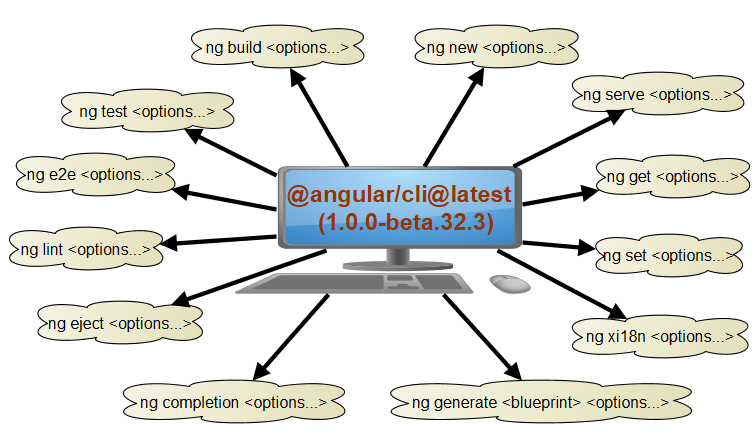
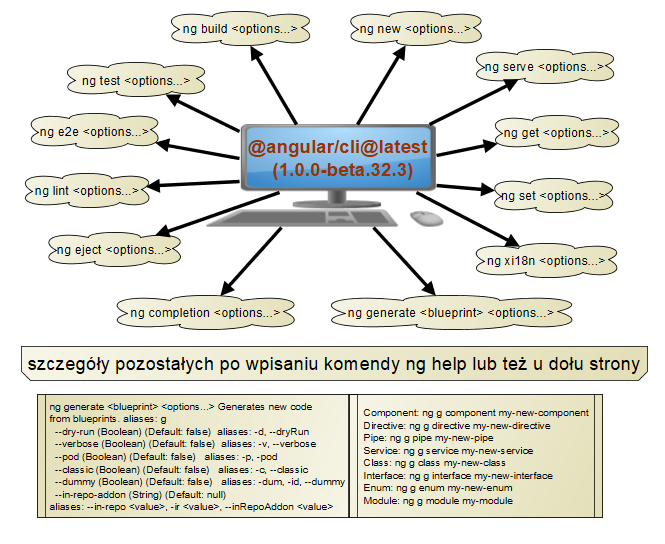
next

diff --git a/src/app/match-gen/match-gen.component.spec.ts b/src/app/match-gen/match-gen.component.spec.ts
@@ -1,0 +1,25 @@
+import { async, ComponentFixture, TestBed } from '@angular/core/testing';
+
+import { MatchGenComponent } from './match-gen.component';
+
+describe('MatchGenComponent', () => {
+  let component: MatchGenComponent;
+  let fixture: ComponentFixture<MatchGenComponent>;
+
+  beforeEach(async(() => {
+    TestBed.configureTestingModule({
+      declarations: [ MatchGenComponent ]
+    })
+    .compileComponents();
+  }));
+
+  beforeEach(() => {
+    fixture = TestBed.createComponent(MatchGenComponent);
+    component = fixture.componentInstance;
+    fixture.detectChanges();
+  });
+
+  it('should create', () => {
+    expect(component).toBeTruthy();
+  });
+});

diff --git a/src/app/app.module.ts b/src/app/app.module.ts
@@ -7,6 +7,7 @@ import { MaterialModule, OverlayContainer, FullscreenOverlayContainer} from '@an
 import {RouterModule} from '@angular/router';
 
 import { DNArootComponent, Wprowadzenie } from './app.component';
+import { MatchGenComponent } from './match-gen/match-gen.component';
 
 @NgModule({
   imports: [
@@ -20,7 +21,8 @@ import { DNArootComponent, Wprowadzenie } from './app.component';
   ],
   declarations: [
     DNArootComponent,
-    Wprowadzenie
+    Wprowadzenie,
+    MatchGenComponent
   ],
   providers: [
     {provide: OverlayContainer, useClass: FullscreenOverlayContainer}

diff --git a/src/app/match-gen/match-gen.component.ts b/src/app/match-gen/match-gen.component.ts
@@ -1,0 +1,15 @@
+import { Component, OnInit } from '@angular/core';
+
+@Component({
+  selector: 'app-match-gen',
+  templateUrl: './match-gen.component.html',
+  styleUrls: ['./match-gen.component.scss']
+})
+export class MatchGenComponent implements OnInit {
+
+  constructor() { }
+
+  ngOnInit() {
+  }
+
+}

diff --git a/src/app/match-gen/match-gen.component.html b/src/app/match-gen/match-gen.component.html
@@ -1,0 +1,3 @@
+<p>
+  match-gen works!
+</p>

diff --git a/README.md b/README.md
@@ -33,23 +33,17 @@ Generalnie chcę utworzyć niezależne środowisko genealogiczno-genetyczne.. al
 > Biblioteki: | [Google TypeScript Angular 4.0.0.beta-7](https://github.com/angular/angular/tree/4.0.0-beta.7) | [angular-material 2.0.0.beta-2](https://github.com/angular/material2/tree/2.0.0-beta.2) |
 >
 > Języki :  | [HTML (5.1/5.2)](https://www.w3.org/TR/html/)  |  [TypeScript (2.1.6)](https://www.typescriptlang.org/) | [SCSS (Sass 3.5)](http://sass-lang.com/) |
+>
+> KOMENDY: Angular CLI 1.0.0-beta.32.3 (szczegóły komend na dole strony)
+> ![](man/CLI.PNG)
 
-## KOMENDY: CLI 1.0.0-beta.32.3
-![](man/CLI.PNG)
-[^1] szczegóły na dole
-
-
-
-> ## WPROWADZENIE
-
+# STRUKTURA PROJEKTU
 > ![](man/strukturaczystegoprojektu.png)
-> ![](man/zaleznosci.png)
 
-# --------------
 
 
 -----
-## [^1]: KOMENDY CLI 1.0.0-beta.32.3
+## KOMENDY ANGULAR CLI 1.0.0-beta.32.3
 
 ### `ng xi18n <options...>` Extracts i18n messages from source code.
 
